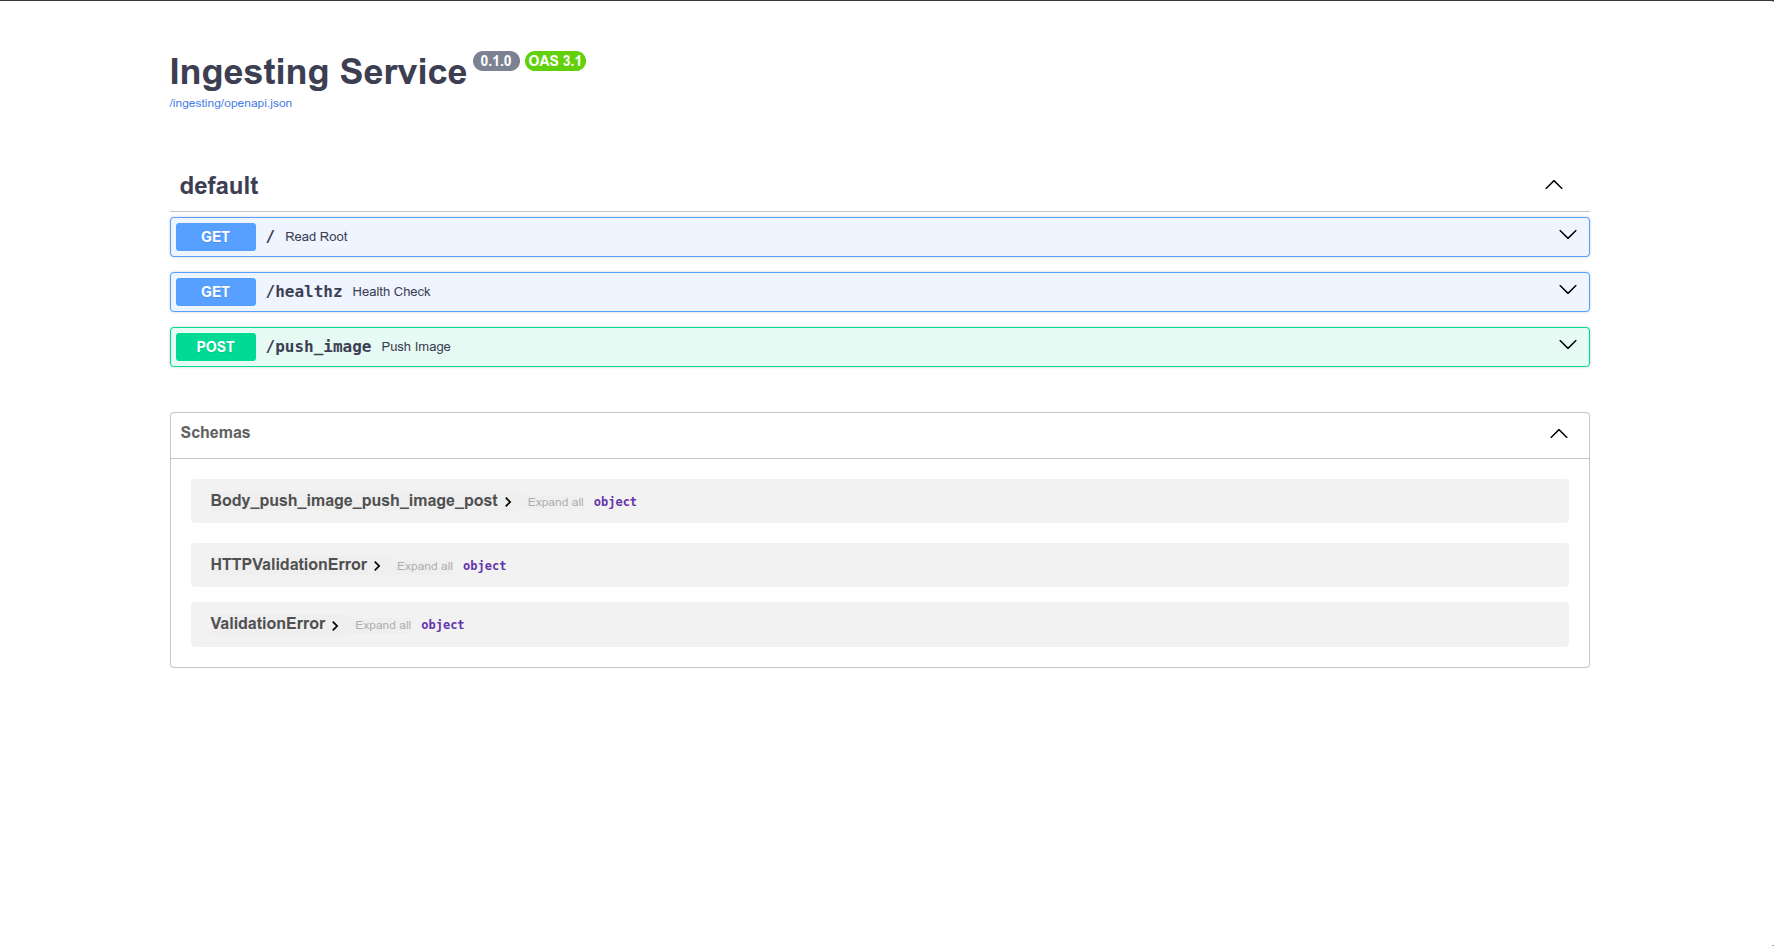
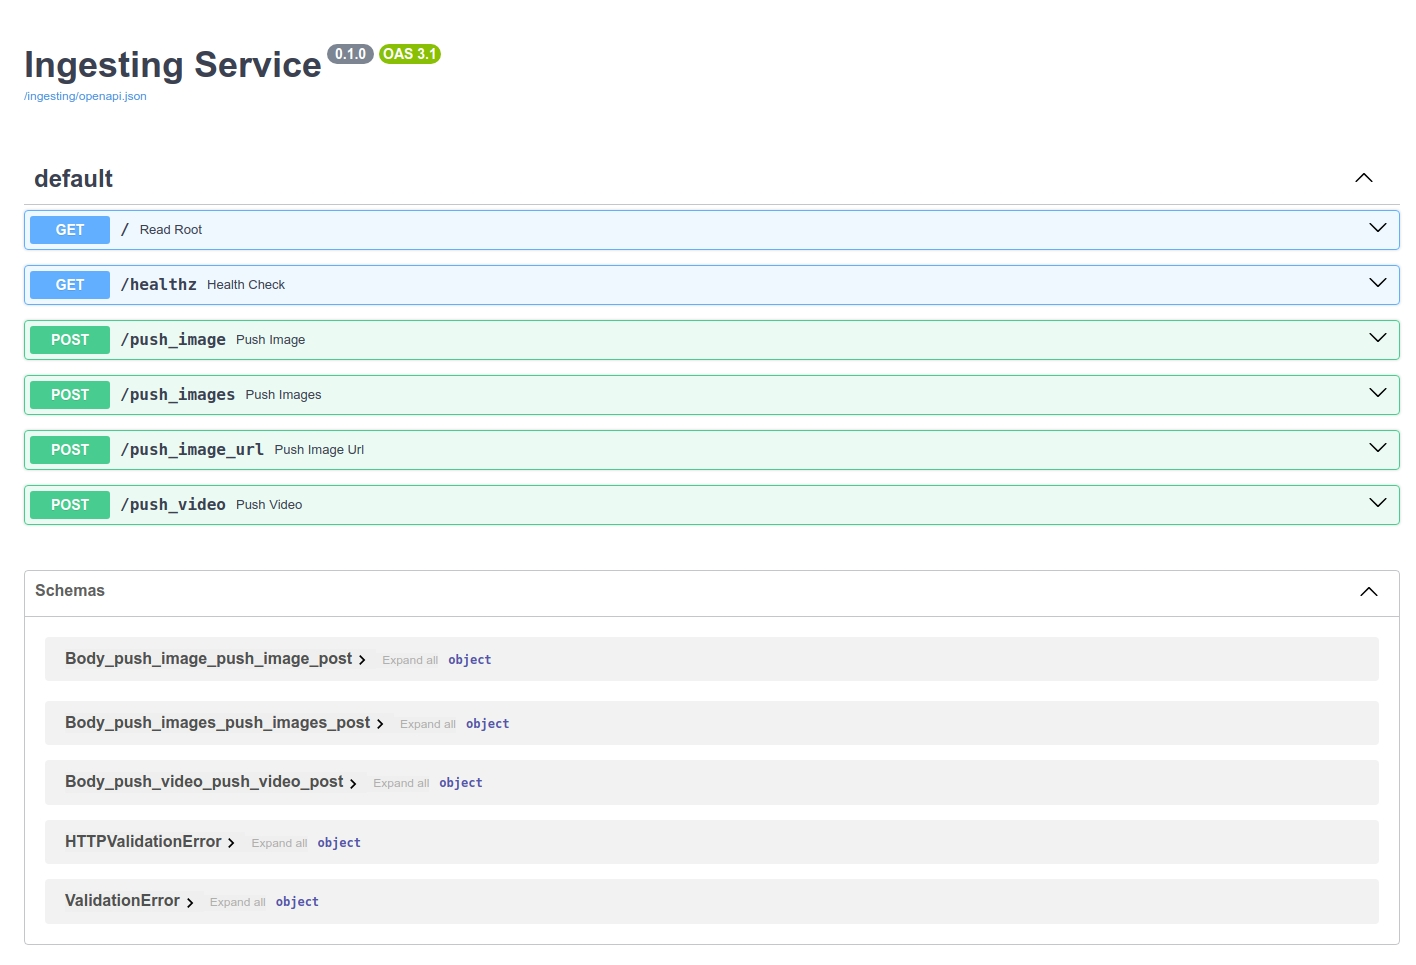
update more ingesting method

diff --git a/ingesting/main.py b/ingesting/main.py
@@ -17,6 +17,10 @@ from io import BytesIO
 from time import time
 from dotenv import load_dotenv, find_dotenv
 load_dotenv(find_dotenv() or "../.env")  # chỉnh path nếu .env ở root
+import tempfile 
+import mimetypes
+import requests
+from typing import List, Optional
 
 # ---------- FastAPI & serving ----------
 import uvicorn
@@ -62,6 +66,8 @@ JAEGER_HOST = os.getenv(
     "jaeger-tracing-jaeger-all-in-one.tracing.svc.cluster.local",
 )
 JAEGER_PORT = int(os.getenv("JAEGER_AGENT_PORT", "6831"))
+ALLOWED_IMAGE_EXIST = {"jpg", "jpeg", "png"}
+ALLOWED_VIDEO_EXIST = {"mp4", "mov", "avi", "mkv", "webm"}
 
 # =========================
 # 1) Tracing (Jaeger) - optional
@@ -156,6 +162,65 @@ app = FastAPI(
     openapi_url="/ingesting/openapi.json",
 )
 
+async def _handle_single_image_upload(filename: str, content_type: Optional[str], image_bytes: bytes):
+    """Validate & upload 1 ảnh lên GCS, trả về metadata + signed_url nếu có."""
+    start_time = time()
+    ingesting_counter.add(1, {"api": "/push_image"})
+
+    with tracer.start_as_current_span("push_image") as push_span:
+        # Validate ảnh
+        with tracer.start_as_current_span("validate-image", links=[Link(push_span.get_span_context())]):
+            ext = (filename or "").split(".")[-1].lower()
+            if ext not in ALLOWED_IMAGE_EXIST:
+                raise HTTPException(status_code=400, detail="Only .jpg/.jpeg/.png allowed")
+            try:
+                Image.open(BytesIO(image_bytes)).convert("RGB")
+            except UnidentifiedImageError:
+                raise HTTPException(status_code=400, detail="Invalid image file")
+
+        # Tạo ID & path
+        file_id = str(uuid.uuid4())
+        gcs_path = f"images/{file_id}.{ext}"
+        gs_uri = f"gs://{GCS_BUCKET_NAME}/{gcs_path}"
+
+        # Upload GCS
+        with tracer.start_as_current_span("upload-to-gcs", links=[Link(push_span.get_span_context())]):
+            blob = bucket.blob(gcs_path)
+            try:
+                blob.upload_from_string(image_bytes, content_type=content_type or f"image/{ext}")
+                logger.info(f"Uploaded image to GCS: {gcs_path}")
+            except Exception as e:
+                logger.error(f"GCS upload failed: {e}")
+                raise HTTPException(status_code=500, detail="GCS upload failed")
+
+        # Signed URL
+        signed_url = None
+        with tracer.start_as_current_span("generate-signed-url", links=[Link(push_span.get_span_context())]):
+            try:
+                response_disposition = f"attachment; filename={filename}"
+                signed_url = blob.generate_signed_url(
+                    version="v4",
+                    expiration=datetime.timedelta(hours=1),
+                    method="GET",
+                    response_disposition=response_disposition,
+                )
+            except Exception as e:
+                logger.warning(f"Signed URL generation failed (image): {e}")
+                signed_url = None
+
+        elapsed = time() - start_time
+        ingesting_histogram.record(elapsed, {"api": "/push_image"})
+        response_time_summary.observe(elapsed)
+
+        return {
+            "message": "Successfully!",
+            "file_id": file_id,
+            "gcs_path": gcs_path,
+            "gs_uri": gs_uri,
+            "signed_url": signed_url,
+        }
+
+
 @app.get("/")
 def read_root():
     """Endpoint chào mừng / hướng dẫn mở docs."""
@@ -178,56 +243,80 @@ def favicon():
 # =========================
 @app.post("/push_image")
 async def push_image(file: UploadFile = File(...)):
+    image_bytes = await file.read()
+    return await _handle_single_image_upload(file.filename, file.content_type, image_bytes)
+
+@app.post("/push_images")
+async def push_images(files: List[UploadFile] = File(...)):
     """
-    Nhận file ảnh:
-    - Validate định dạng
-    - Upload ảnh lên GCS & (cố gắng) sinh signed URL
-    - Ghi metrics + trace
+    Nhận nhiều ảnh cùng lúc: -F "files=@a.jpg" -F "files=@b.png"
     """
-    start_time = time()
-    ingesting_counter.add(1, {"api": "/push_image"})
+    results = []
+    for f in files:
+        try:
+            b = await f.read()
+            res = await _handle_single_image_upload(f.filename, f.content_type, b)
+            results.append({"filename": f.filename, **res})
+        except HTTPException as he:
+            results.append({"filename": f.filename, "error": he.detail})
+        except Exception as e:
+            results.append({"filename": f.filename, "error": str(e)})
+    return {"count": len(results), "results": results}
 
-    with tracer.start_as_current_span("push_image") as push_span:
+@app.post("/push_image_url")
+def push_image_url(url: str):
+    """
+    Tải ảnh từ URL công khai rồi upload lên GCS.
+    Body JSON: {"url": "https://.../abc.jpg"}
+    """
+    ingesting_counter.add(1, {"api": "/push_image_url"})
 
-        # --- Validate ảnh ---
-        with tracer.start_as_current_span(
-            "validate-image", links=[Link(push_span.get_span_context())]
-        ):
-            image_bytes = await file.read()
-            ext = (file.filename or "").split(".")[-1].lower()
-            if ext not in {"jpg", "jpeg", "png"}:
-                raise HTTPException(
-                    status_code=400,
-                    detail="Only .jpg/.jpeg/.png allowed",
-                )
-            try:
-                Image.open(BytesIO(image_bytes)).convert("RGB")
-            except UnidentifiedImageError:
-                raise HTTPException(status_code=400, detail="Invalid image file")
+    with tracer.start_as_current_span("push_image_url") as span:
+        try:
+            with tracer.start_as_current_span("download-image", links=[Link(span.get_span_context())]):
+                r = requests.get(url, timeout=20)
+                if r.status_code != 200:
+                    raise HTTPException(status_code=400, detail=f"Download failed: HTTP {r.status_code}")
+                image_bytes = r.content
+                guessed_name = url.split("?")[0].split("/")[-1] or "remote.jpg"
+                content_type = r.headers.get("Content-Type")
+                if "." not in guessed_name:
+                    ext = (mimetypes.guess_extension(content_type or "") or ".jpg").lstrip(".")
+                    guessed_name = f"remote.{ext}"
+        except Exception as e:
+            raise HTTPException(status_code=400, detail=str(e))
 
-        # Tạo ID và đường dẫn object trên GCS
+    # xử lý như ảnh đơn (sync -> gọi helper async qua anyio)
+    import anyio
+    return anyio.run(_handle_single_image_upload, guessed_name, content_type, image_bytes)
+
+@app.post("/push_video")
+async def push_video(file: UploadFile = File(...)):
+    """
+    Nhận 1 video file (mp4, mov, avi, mkv, webm) và upload lên GCS.
+    """
+    ingesting_counter.add(1, {"api": "/push_video"})
+    with tracer.start_as_current_span("push_video") as span:
+        data = await file.read()
+        ext = (file.filename or "").split(".")[-1].lower()
+        if ext not in ALLOWED_VIDEO_EXIST:
+            raise HTTPException(status_code=400, detail="Unsupported video format")
+
         file_id = str(uuid.uuid4())
-        gcs_path = f"images/{file_id}.{ext}"
+        gcs_path = f"videos/{file_id}.{ext}"
         gs_uri = f"gs://{GCS_BUCKET_NAME}/{gcs_path}"
 
-        # --- Upload ảnh lên GCS ---
-        with tracer.start_as_current_span(
-            "upload-to-gcs", links=[Link(push_span.get_span_context())]
-        ):
+        with tracer.start_as_current_span("upload-to-gcs", links=[Link(span.get_span_context())]):
             blob = bucket.blob(gcs_path)
-            if not blob.exists():
-                try:
-                    blob.upload_from_string(image_bytes, content_type=file.content_type)
-                    logger.info(f"Uploaded to GCS: {gcs_path}")
-                except Exception as e:
-                    logger.error(f"GCS upload failed: {e}")
-                    raise HTTPException(status_code=500, detail="GCS upload failed")
+            try:
+                blob.upload_from_string(data, content_type=file.content_type or f"video/{ext}")
+                logger.info(f"Uploaded video to GCS: {gcs_path}")
+            except Exception as e:
+                logger.error(f"GCS upload failed (video): {e}")
+                raise HTTPException(status_code=500, detail="GCS upload failed")
 
-        # --- Sinh signed URL truy cập ảnh (fallback nếu không có private key) ---
         signed_url = None
-        with tracer.start_as_current_span(
-            "generate-signed-url", links=[Link(push_span.get_span_context())]
-        ):
+        with tracer.start_as_current_span("generate-signed-url", links=[Link(span.get_span_context())]):
             try:
                 response_disposition = f"attachment; filename={file.filename}"
                 signed_url = blob.generate_signed_url(
@@ -236,28 +325,17 @@ async def push_image(file: UploadFile = File(...)):
                     method="GET",
                     response_disposition=response_disposition,
                 )
-            except AttributeError as e:
-                # Trường hợp dùng user token (không có private key) => không ký được URL
-                logger.warning(f"Skip signed URL (no private key in creds): {e}")
-                signed_url = None
             except Exception as e:
-                logger.warning(f"Signed URL generation failed: {e}")
+                logger.warning(f"Signed URL generation failed (video): {e}")
                 signed_url = None
 
-        # Ghi thời gian xử lý
-        elapsed = time() - start_time
-        ingesting_histogram.record(elapsed, {"api": "/push_image"})
-        response_time_summary.observe(elapsed)
-
-        # --- Phản hồi ---
         return {
             "message": "Successfully!",
             "file_id": file_id,
             "gcs_path": gcs_path,
-            "gs_uri": gs_uri,          # luôn có
-            "signed_url": signed_url,  # có nếu SA key / private key sẵn sàng
+            "gs_uri": gs_uri,
+            "signed_url": signed_url,
         }
-
 # =========================
 # 6) Entrypoint (dev run)
 # =========================
